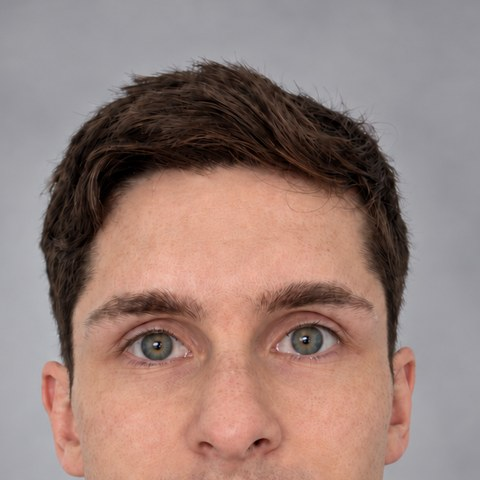
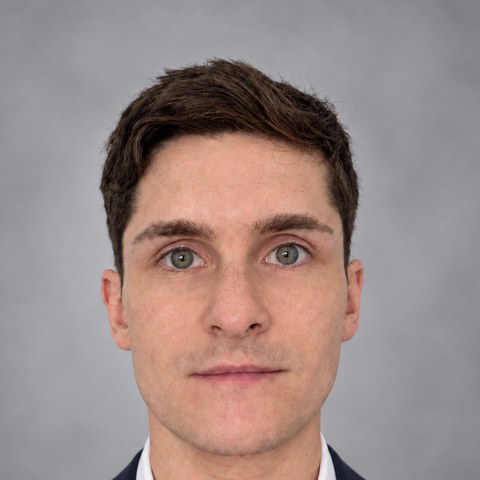
Portfolio: CV-register copy, seamless ticker, headshot crop

diff --git a/portfolio/index.html b/portfolio/index.html
@@ -3,7 +3,7 @@
 <head>
 <meta charset="utf-8">
 <meta name="viewport" content="width=device-width, initial-scale=1">
-<title>Charlie Jessey, AI and Automation</title>
+<title>Charlie Jessey, AI and Automation Consultant</title>
 <meta name="description" content="Charlie Jessey builds the systems a business runs on: production dashboards, CRM automation and AI workflows. Results, case studies and how I work.">
 <meta name="robots" content="noindex">
 <link rel="preconnect" href="https://fonts.googleapis.com">
@@ -40,7 +40,7 @@ a{color:var(--accent)}
 .graph{position:relative;max-width:1168px;margin:24px auto 0;height:560px}
 .graph svg{position:absolute;inset:0;width:100%;height:100%}
 .idcard{position:absolute;left:50%;top:50%;transform:translate(-50%,-50%);width:340px;height:114px;background:var(--surface);border:1.5px solid var(--ink);border-radius:22px;box-shadow:0 30px 70px rgba(15,23,42,.16);padding:0 24px;display:flex;align-items:center;gap:16px}
-.idcard img{width:70px;height:70px;border-radius:50%;object-fit:cover;border:1.5px solid var(--ink);flex-shrink:0}
+.idcard img{width:70px;height:70px;border-radius:50%;object-fit:cover;object-position:50% 50%;border:1.5px solid var(--ink);flex-shrink:0}
 .idcard .name{font-family:var(--display);font-size:28px;line-height:1;text-transform:uppercase}
 .idcard .t{font-size:13px}.idcard .c{font-size:12px;color:var(--muted)}
 .win{position:absolute;width:200px;display:flex;flex-direction:column;gap:3px}
@@ -62,7 +62,7 @@ a{color:var(--accent)}
 /* ticker */
 .ticker-label{padding:34px 0 10px}.ticker-label .mono{font-size:10px}
 .ticker{overflow:hidden;border-top:1px solid var(--ink);border-bottom:1px solid var(--ink);background:var(--ink);color:#fff;padding:12px 0;font-family:var(--mono);font-size:12px;letter-spacing:.12em;white-space:nowrap}
-.ticker .tick{display:inline-flex;gap:48px;width:max-content;padding-left:48px}
+.ticker .tick{display:flex;width:max-content}.ticker .grp{display:flex;gap:48px;padding-right:48px;flex-shrink:0}
 
 /* card section */
 .cards{padding:56px 0 24px;display:grid;grid-template-columns:300fr 400fr 408fr;gap:30px;align-items:start}
@@ -164,8 +164,8 @@ footer .small{display:flex;justify-content:space-between;gap:24px;font-size:12px
 <body>
 
 <section class="hero wrap">
-  <h1 class="display">I build the systems a business runs on<span>.</span></h1>
-  <p class="lede">Production dashboards, CRM automation and AI workflows, built inside the businesses that use them. Six of them, wired in below.</p>
+  <h1 class="display">Three years building the systems businesses run on<span>.</span></h1>
+  <p class="lede">AI and automation consultant, Brisbane. I have designed, built and handed over production dashboards, CRM automation and AI workflows for six businesses, wired in below.</p>
 
   <div class="graph">
     <svg viewBox="0 0 1168 560" preserveAspectRatio="xMidYMid meet" aria-hidden="true">
@@ -205,7 +205,7 @@ footer .small{display:flex;justify-content:space-between;gap:24px;font-size:12px
 </section>
 
 <div class="wrap ticker-label" style="padding-left:calc(16px + 22%)"><span class="mono">Platforms I've worked in</span></div>
-<div class="ticker" aria-label="Platforms"><div class="tick"><span>NEXT.JS</span><span>SUPABASE</span><span>POSTGRES + RLS</span><span>VERCEL</span><span>HUBSPOT</span><span>AIRTABLE</span><span>MAKE</span><span>N8N</span><span>CLAUDE API</span><span>PYTHON</span><span>GITHUB ACTIONS</span><span>PLAYWRIGHT</span><span>NEXT.JS</span><span>SUPABASE</span><span>POSTGRES + RLS</span><span>VERCEL</span><span>HUBSPOT</span><span>AIRTABLE</span><span>MAKE</span><span>N8N</span><span>CLAUDE API</span><span>PYTHON</span><span>GITHUB ACTIONS</span><span>PLAYWRIGHT</span></div></div>
+<div class="ticker" aria-label="Platforms"><div class="tick"><div class="grp"><span>NEXT.JS</span><span>SUPABASE</span><span>POSTGRES + RLS</span><span>VERCEL</span><span>HUBSPOT</span><span>AIRTABLE</span><span>MAKE</span><span>N8N</span><span>CLAUDE API</span><span>PYTHON</span><span>GITHUB ACTIONS</span><span>PLAYWRIGHT</span></div><div class="grp"><span>NEXT.JS</span><span>SUPABASE</span><span>POSTGRES + RLS</span><span>VERCEL</span><span>HUBSPOT</span><span>AIRTABLE</span><span>MAKE</span><span>N8N</span><span>CLAUDE API</span><span>PYTHON</span><span>GITHUB ACTIONS</span><span>PLAYWRIGHT</span></div></div></div>
 
 <section class="cards wrap">
   <div class="col">
@@ -268,7 +268,7 @@ footer .small{display:flex;justify-content:space-between;gap:24px;font-size:12px
       <g stroke="#2563EB" stroke-width="2.4" fill="none" stroke-linecap="round"><path class="bm" d="M428,254 C380,220 360,200 330,180" pathLength="100"/><path class="bm x2" d="M740,254 C790,220 810,200 838,180" pathLength="100"/><path class="bm x3" d="M428,566 C380,600 360,620 330,640" pathLength="100"/><path class="bm x5" d="M740,566 C790,600 810,620 838,640" pathLength="100"/></g>
       <g fill="#F1F0EB" stroke="#0F172A" stroke-width="1.4"><circle cx="428" cy="254" r="6"/><circle cx="740" cy="254" r="6"/><circle cx="428" cy="566" r="6"/><circle cx="740" cy="566" r="6"/></g>
     </svg>
-    <div class="ringcentre"><div class="h">Areas of expertise</div><p>I combine AI, integration and production engineering to build systems the business keeps running.</p></div>
+    <div class="ringcentre"><div class="h">Areas of expertise</div><p>Four areas I have delivered in, across consulting and production builds.</p></div>
     <div class="card area a1"><div class="hd"><span class="ic"><svg width="15" height="15" viewBox="0 0 24 24" fill="none" stroke="#93C5FD" stroke-width="2"><circle cx="12" cy="12" r="3"/><path d="M12 3v3M12 18v3M3 12h3M18 12h3"/></svg></span><b>AI workflows &amp; agents</b></div><p>Drafting, classification and routing that runs on a schedule and hands a human the decision, never the chore.</p></div>
     <div class="card area a2"><div class="hd"><span class="ic"><svg width="15" height="15" viewBox="0 0 24 24" fill="none" stroke="#93C5FD" stroke-width="2"><path d="M4 7h6v6H4zM14 11h6v6h-6zM10 10h4"/></svg></span><b>Process automation</b></div><p>Make, n8n, APIs and browser automation for the tools that have none. 21 automations mapped and scored for one client.</p></div>
     <div class="card area a3"><div class="hd"><span class="ic"><svg width="15" height="15" viewBox="0 0 24 24" fill="none" stroke="#93C5FD" stroke-width="2"><rect x="3" y="4" width="18" height="14" rx="2"/><path d="M3 9h18"/></svg></span><b>Production web apps</b></div><p>Next.js and Supabase with row-level security, tests, monitoring and runbooks, on infrastructure the client owns.</p></div>
@@ -277,7 +277,7 @@ footer .small{display:flex;justify-content:space-between;gap:24px;font-size:12px
 </section>
 
 <section class="work wrap" id="work">
-  <div><div class="mono" style="color:var(--accent)">Selected work</div><h2 class="display">Systems I have shipped</h2><p class="sub">Each one went from a first conversation to something a team uses every day.</p></div>
+  <div><div class="mono" style="color:var(--accent)">Selected work</div><h2 class="display">Systems I have shipped</h2><p class="sub">Three recent engagements, each taken from the first conversation through to a system the team uses every day.</p></div>
 
   <div class="row">
     <a class="frame" id="demo-link" aria-label="Operations dashboard, sample data"><img src="assets/admin-home.jpg" alt="Operations dashboard overview with sample data" loading="lazy"><span class="badge">SAMPLE DATA</span></a>
@@ -313,8 +313,8 @@ footer .small{display:flex;justify-content:space-between;gap:24px;font-size:12px
 
 <footer id="contact"><div class="wrap">
   <div class="top">
-    <div><div class="k">Get in touch</div><h2 class="display">If your team has an automation backlog, I would like to hear about it.</h2></div>
-    <div class="ctas"><a class="btn primary" href="mailto:charlie@zynwise.com">Email me</a><a class="btn ghost" id="linkedin" href="https://www.linkedin.com/" rel="noopener">LinkedIn</a></div>
+    <div><div class="k">Contact</div><h2 class="display">Applying for AI and automation roles where I can own systems end to end.</h2></div>
+    <div class="ctas"><a class="btn primary" href="mailto:charlie@zynwise.com">Email Charlie</a><a class="btn ghost" id="linkedin" href="https://www.linkedin.com/" rel="noopener">LinkedIn</a></div>
   </div>
   <div class="facts"><div><div class="k">Based in</div><b>Brisbane, Australia</b></div><div><div class="k">Working arrangement</div><b>On site, hybrid or remote</b></div><div><div class="k">Availability</div><b>Available now</b></div></div>
   <div class="small"><span>Dashboard screens show the delivered application with fictional names and randomised figures. Figures marked estimated or projected are labelled as such and are replaced by measured results at each project's close.</span><span class="mono" style="white-space:nowrap">Charlie Jessey · 2026</span></div>
